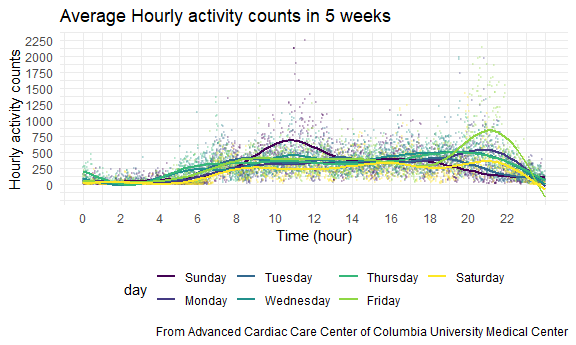
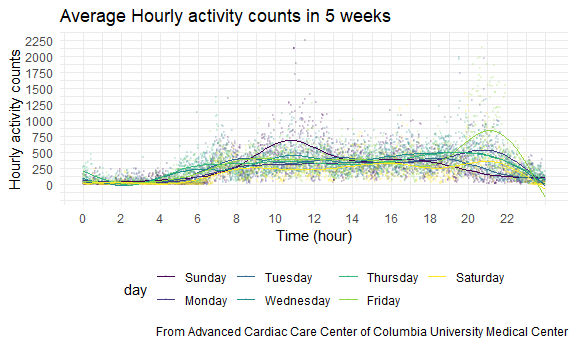
inline R correction, change codechunk setting

Changed region(s): [[0.1562, 0.3768, 0.9688, 0.5507]]

diff --git a/p8105_hw3_ls3751.md b/p8105_hw3_ls3751.md
@@ -160,9 +160,9 @@ accel_df = accel_df %>%
 
 #### 2.1.3 Overview
 
-After data cleaning and wrangling, this dataset has 50400 observations
-with 6 variables, including week, day\_id, day, weekday\_weekend,
-minute, counts.
+After data cleaning and wrangling, this dataset has **50400**
+observations with **6** variables, including *week, day\_id, day,
+weekday\_weekend, minute, counts*.
 
   - *week\_id*: the week indicator ranging from 1 to 5.
   - *day\_id*: the day indicator ranging from 1 to 35 (5 weeks in
@@ -184,8 +184,6 @@ accel_df %>%
   ) %>% 
   knitr::kable(digits = 1)
 ```
-
-    ## `summarise()` regrouping output by 'week' (override with `.groups` argument)
 
 | day       |    week1 |  week2 |  week3 |  week4 |  week5 |
 | :-------- | -------: | -----: | -----: | -----: | -----: |
@@ -216,8 +214,6 @@ accel_df %>%
   ) %>% 
   knitr::kable()
 ```
-
-    ## `summarise()` regrouping output by 'week' (override with `.groups` argument)
 
 | day       | week1 | week2 | week3 | week4 | week5 |
 | :-------- | ----: | ----: | ----: | ----: | ----: |
@@ -257,10 +253,6 @@ accel_df %>%
                      labels = c(seq(0,23, by = 2)),)
 ```
 
-    ## `summarise()` regrouping output by 'day' (override with `.groups` argument)
-
-    ## `geom_smooth()` using method = 'loess' and formula 'y ~ x'
-
 <img src="p8105_hw3_ls3751_files/figure-gfm/unnamed-chunk-10-1.png" width="90%" />
 
 By minute:
@@ -270,8 +262,8 @@ accel_df %>%
   group_by(day,minute) %>% 
   summarise(mean_act = mean(counts, na.rm = T)) %>%
   ggplot(aes(x = minute, y = mean_act, color = day)) +
-  geom_point(alpha = .2, size = .5) +
-  geom_smooth(se = F) +
+  geom_point(alpha = .15, size = .5) +
+  geom_smooth(size = .5, se = F) +
   labs(
     title = "Average Hourly activity counts in 5 weeks",
     x = "Time (hour)",
@@ -283,10 +275,6 @@ accel_df %>%
   scale_x_continuous(breaks = c(seq(0,1400, by = 120)),
                      labels = c(seq(0,23, by = 2)),)
 ```
-
-    ## `summarise()` regrouping output by 'day' (override with `.groups` argument)
-
-    ## `geom_smooth()` using method = 'gam' and formula 'y ~ s(x, bs = "cs")'
 
 <img src="p8105_hw3_ls3751_files/figure-gfm/unnamed-chunk-11-1.png" width="90%" />
 
@@ -308,8 +296,8 @@ range(pull(ny_noaa,date))
 ## [1] "1981-01-01" "2010-12-31"
 ```
 
-This dataset has 2595176 observations collected from 747 weather
-stations with 7 variables.
+This dataset has **2595176** observations collected from **747**
+distinct weather stations with **7** variables.
 
   - *id*: the indicator of which site did the record.
   - *date*: the recorded dat from 1981.1.1 to 2010.12.31.
